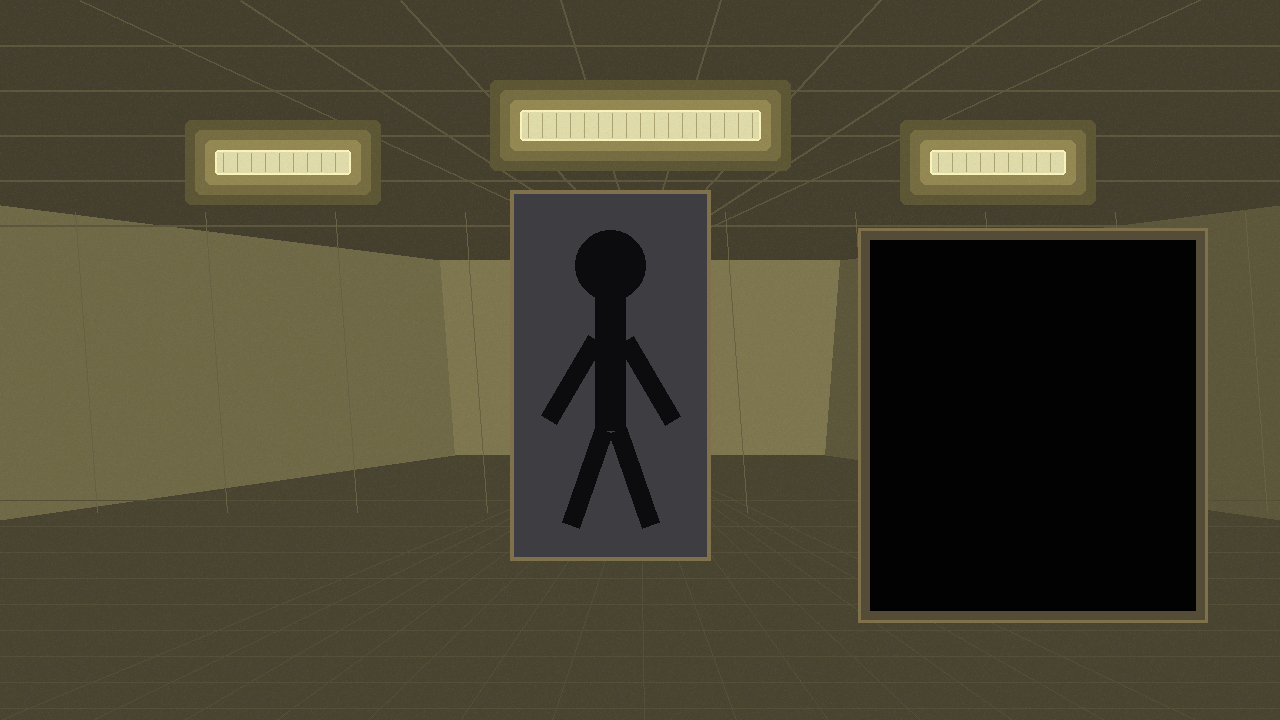
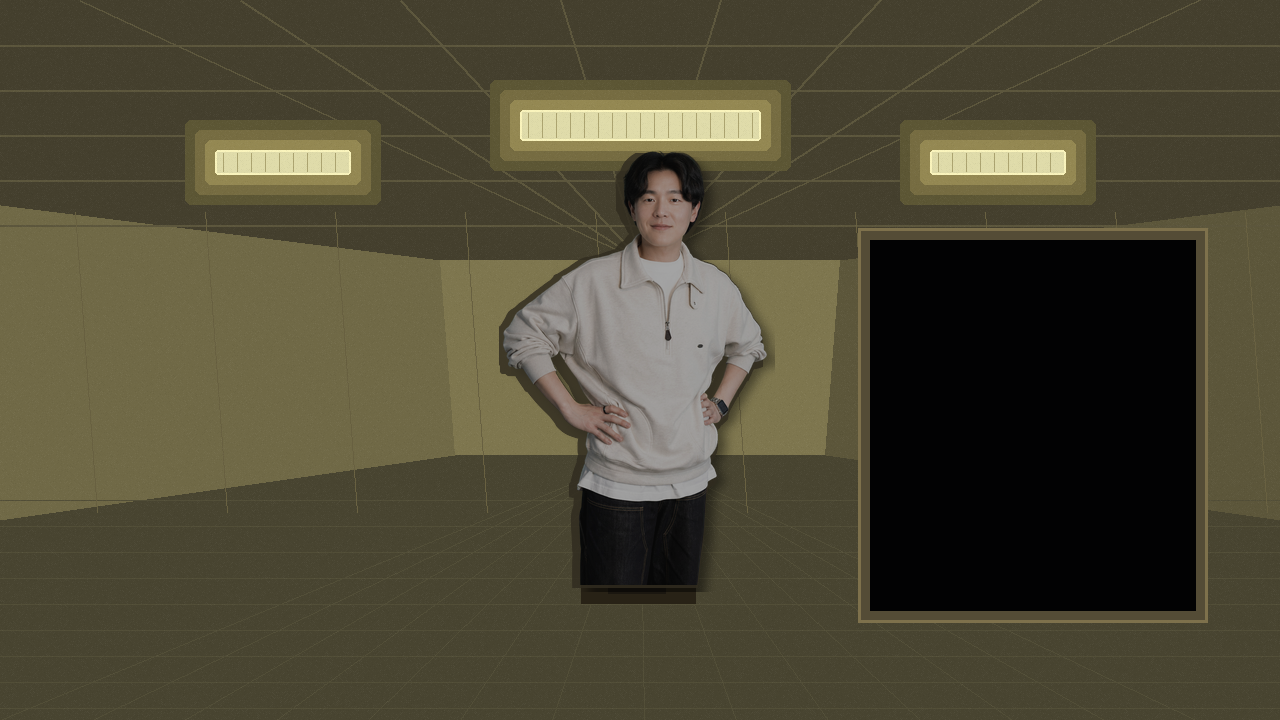
Add photo-based human panel

Changed region(s): [[0.375, 0.2139, 0.625, 0.8556], [0.375, 0.7028, 0.4062, 0.7333]]

diff --git a/tools/generate_assets.py b/tools/generate_assets.py
@@ -6,12 +6,14 @@ import wave
 from array import array
 from pathlib import Path
 
-from PIL import Image, ImageDraw, ImageFilter, ImageFont
+from PIL import Image, ImageDraw, ImageEnhance, ImageFilter, ImageFont
 
 
 ROOT = Path(__file__).resolve().parents[1]
 IMAGES = ROOT / "assets" / "images"
 AUDIO = ROOT / "assets" / "audio"
+SOURCE = ROOT / "assets" / "source"
+HUMAN_PANEL_CUTOUT = SOURCE / "human_panel_cutout.png"
 W, H = 1280, 720
 
 # Current visual mode is a polished placeholder: positions stay readable, but
@@ -113,6 +115,50 @@ def doorway(draw: ImageDraw.ImageDraw, box: tuple[int, int, int, int], label: st
     x1, y1, x2, y2 = box
     draw.rectangle((x1 - 12, y1 - 12, x2 + 12, y2 + 12), fill=(84, 76, 54), outline=LINE, width=3)
     draw.rectangle(box, fill=DARK)
+
+
+def paste_human_panel(img: Image.Image, box: tuple[int, int, int, int]) -> Image.Image:
+    if not HUMAN_PANEL_CUTOUT.exists():
+        return img
+
+    panel = Image.open(HUMAN_PANEL_CUTOUT).convert("RGBA")
+    bbox = panel.getbbox()
+    if bbox is None:
+        return img
+    panel = panel.crop(bbox)
+
+    x1, y1, x2, y2 = box
+    max_w = x2 - x1
+    max_h = y2 - y1
+    scale = min(max_w / panel.width, max_h / panel.height)
+    size = (max(1, int(panel.width * scale)), max(1, int(panel.height * scale)))
+    panel = panel.resize(size, Image.Resampling.LANCZOS)
+
+    rgb = panel.convert("RGB")
+    rgb = ImageEnhance.Color(rgb).enhance(0.78)
+    rgb = ImageEnhance.Contrast(rgb).enhance(0.88)
+    rgb = ImageEnhance.Brightness(rgb).enhance(0.70)
+    alpha = panel.getchannel("A")
+    panel = rgb.convert("RGBA")
+    panel.putalpha(alpha)
+
+    canvas = img.convert("RGBA")
+    x = x1 + (max_w - panel.width) // 2
+    y = y2 - panel.height
+
+    backing_alpha = alpha.filter(ImageFilter.MaxFilter(9))
+    backing = Image.new("RGBA", panel.size, (48, 43, 31, 0))
+    backing.putalpha(backing_alpha.point(lambda value: min(210, value)))
+    shadow = Image.new("RGBA", panel.size, (0, 0, 0, 0))
+    shadow.putalpha(alpha.filter(ImageFilter.GaussianBlur(5)).point(lambda value: int(value * 0.45)))
+
+    base = ImageDraw.Draw(canvas)
+    base.rectangle((x + 78, y + panel.height - 12, x + panel.width - 72, y + panel.height + 18), fill=(40, 34, 22, 220))
+    base.rectangle((x + 105, y + panel.height - 44, x + panel.width - 102, y + panel.height + 8), fill=(27, 23, 16, 190))
+    canvas.alpha_composite(shadow, (x + 8, y + 7))
+    canvas.alpha_composite(backing, (x - 4, y + 3))
+    canvas.alpha_composite(panel, (x, y))
+    return canvas.convert("RGB")
 
 
 def arrow_path(draw: ImageDraw.ImageDraw, side: str, label: str) -> None:
@@ -242,14 +288,7 @@ def scene_left_switch_room() -> Image.Image:
 def scene_right_panel_path() -> Image.Image:
     img, draw = blockout_room("BLOCKOUT: RIGHT_PANEL_PATH")
     doorway(draw, (870, 240, 1195, 610), "DEAD END")
-    draw.rectangle((510, 190, 710, 560), fill=(62, 62, 66), outline=LINE, width=4)
-    draw.ellipse((575, 230, 645, 300), fill=(12, 12, 14))
-    draw.rectangle((595, 298, 625, 430), fill=(12, 12, 14))
-    draw.line((595, 340, 548, 420), fill=(12, 12, 14), width=18)
-    draw.line((625, 340, 672, 420), fill=(12, 12, 14), width=18)
-    draw.line((603, 430, 570, 525), fill=(12, 12, 14), width=18)
-    draw.line((617, 430, 650, 525), fill=(12, 12, 14), width=18)
-    return img
+    return paste_human_panel(img, (500, 150, 770, 585))
 
 
 def scene_right_dead_end() -> Image.Image:

diff --git a/docs/TEXT_DRAFTS.md b/docs/TEXT_DRAFTS.md
@@ -1,0 +1,64 @@
+# Text Drafts
+
+게임 내 캡션/프롬프트 초안이다. 아직 확정 문구가 아니며, 사용자가 첨삭한 뒤 `data/rooms.json`과 `src/Game.gd`에 반영한다.
+
+## 작성 원칙
+
+- 한 줄은 짧게 유지한다.
+- 상황 설명보다 플레이어가 느끼는 위화감을 우선한다.
+- 시스템 문구처럼 말하지 않는다.
+- 정답을 직접 알려주지 않는다.
+
+## 방 캡션 초안
+
+| 위치 | 초안 |
+| --- | --- |
+| `fork_stop` | 표지판 뒤가 비어 있다. |
+| `fork_stop` 크리처 이후 | 방금 저 뒤에 뭔가 있었다. |
+| `stop_back_space` 첫 진입 | 아무것도 보이지 않는다. |
+| `stop_back_space` 붉어진 뒤 | 어둠이 붉게 젖어 있다. |
+| `left_blood_path` | 붉은 자국이 왼쪽으로 끌려 있다. |
+| `left_switch_room` | 벽에 전등 버튼이 하나 있다. |
+| `right_panel_path` | 이쪽 바닥은 너무 깨끗하다. |
+| `right_dead_end` | 길은 여기서 끝난다. |
+| `blocked_passage` | 뒤가 막혔다. |
+| `true_exit_room` | 문 밖은 더 이상 노랗지 않았다. |
+
+## 조사/이벤트 캡션 초안
+
+| 이벤트 | 초안 |
+| --- | --- |
+| STOP 표지 조사 | 글자가 칠해진 게 아니라 파여 있다. |
+| 핏자국 조사 | 끌린 자국은 왼쪽에서 끊겼다. |
+| 전등 버튼 | 무언가 변한 것 같다. |
+| 인간형 판넬 조사 A | 사람 모양인데, 너무 평평하다. |
+| 인간형 판넬 조사 B | 사진인데, 눈만 조금 늦게 따라온다. |
+| 인간형 판넬 조사 C | 종이보다 얇은데, 사람보다 크게 보인다. |
+| 우측 막다른 벽 | 길은 없다. |
+| 막다른 길 복귀 | 판넬 뒤에서 소리가 났다. |
+| STOP 뒤 첫 어둠 재조사 | 어둠은 대답하지 않는다. |
+| 반복 조사 | 아무것도 움직이지 않는다. |
+
+## 엔딩 문구 초안
+
+| 엔딩 | 캡션 | 프롬프트 |
+| --- | --- | --- |
+| A | 문 밖은 더 이상 노랗지 않았다. | A 엔딩: 진짜 출구. 클릭하면 다시 시작. |
+| B | 나간 줄 알았다. | B 엔딩: 다시 백룸. 클릭하면 다시 시작. |
+| C | 돌아보면 안 됐다. | C 엔딩: 크리처에게 잡힘. 클릭하면 다시 시작. |
+
+## 호버 프롬프트 초안
+
+| 대상 | 초안 |
+| --- | --- |
+| STOP 표지 | STOP |
+| STOP 뒤 공간 | 뒤쪽 |
+| 왼쪽 길 | 왼쪽 길 |
+| 오른쪽 길 | 오른쪽 길 |
+| 핏자국 | 흔적 |
+| 전등 버튼 | 버튼 |
+| 인간형 판넬 | 판넬 |
+| 막다른 길 | 앞으로 |
+| 돌아가기 | 돌아가기 |
+| 진짜 출구 | 문 |
+| 가짜 출구 | 바닥 문 |

diff --git a/docs/PROGRESS.md b/docs/PROGRESS.md
@@ -67,6 +67,8 @@
 | 2026-06-13 | 개발용 hotspot overlay를 기본 OFF로 바꿨다. | 폴리싱 리뷰에서 디버그 박스가 분위기를 가리지 않게 하기 위해. |
 | 2026-06-13 | 블록아웃 영어 라벨을 제거하고 polished placeholder 톤으로 정리했다. | 동선은 유지하면서 최종 실사풍 전 단계의 몰입감을 올리기 위해. |
 | 2026-06-13 | Noto Sans KR UI 폰트를 포함했다. | Godot Web export에서 한국어 캡션이 네모 glyph로 깨지는 문제를 막기 위해. |
+| 2026-06-13 | 우측 인간형 판넬을 사용자 사진 기반 cutout으로 교체했다. | 평범한 길의 위화감을 placeholder 실루엣보다 구체적으로 만들기 위해. |
+| 2026-06-13 | 게임 내 텍스트 초안을 `docs/TEXT_DRAFTS.md`로 분리했다. | 사용자가 문구를 첨삭한 뒤 실제 캡션 데이터에 반영하기 위해. |
 
 ## 고도화 방향
 
@@ -156,6 +158,7 @@
 - `src/Game.gd`는 아직 단일 파일 프로토타입이다.
 - `data/rooms.json`이 현재 방 그래프와 hotspot의 중심이다.
 - 이미지는 `tools/generate_assets.py`로 생성한다.
+- 우측 판넬 cutout source는 `assets/source/human_panel_cutout.png`이고, `bg_right_panel_path.png`에 합성된다.
 - UI 캡션/프롬프트는 `assets/fonts/NotoSansKR-Regular.ttf`를 사용한다.
 - 현재 배경은 개발용 블록아웃 label을 제거한 polished placeholder다.
 - 현재 배포 빌드는 GDD v2의 8방 구조, v2.1 STOP 표지판 방/출구 조건 변경, v2.2 B 엔딩 전 길목 차단 frame, v2.3 polished placeholder와 한국어 UI 폰트를 포함한다.
